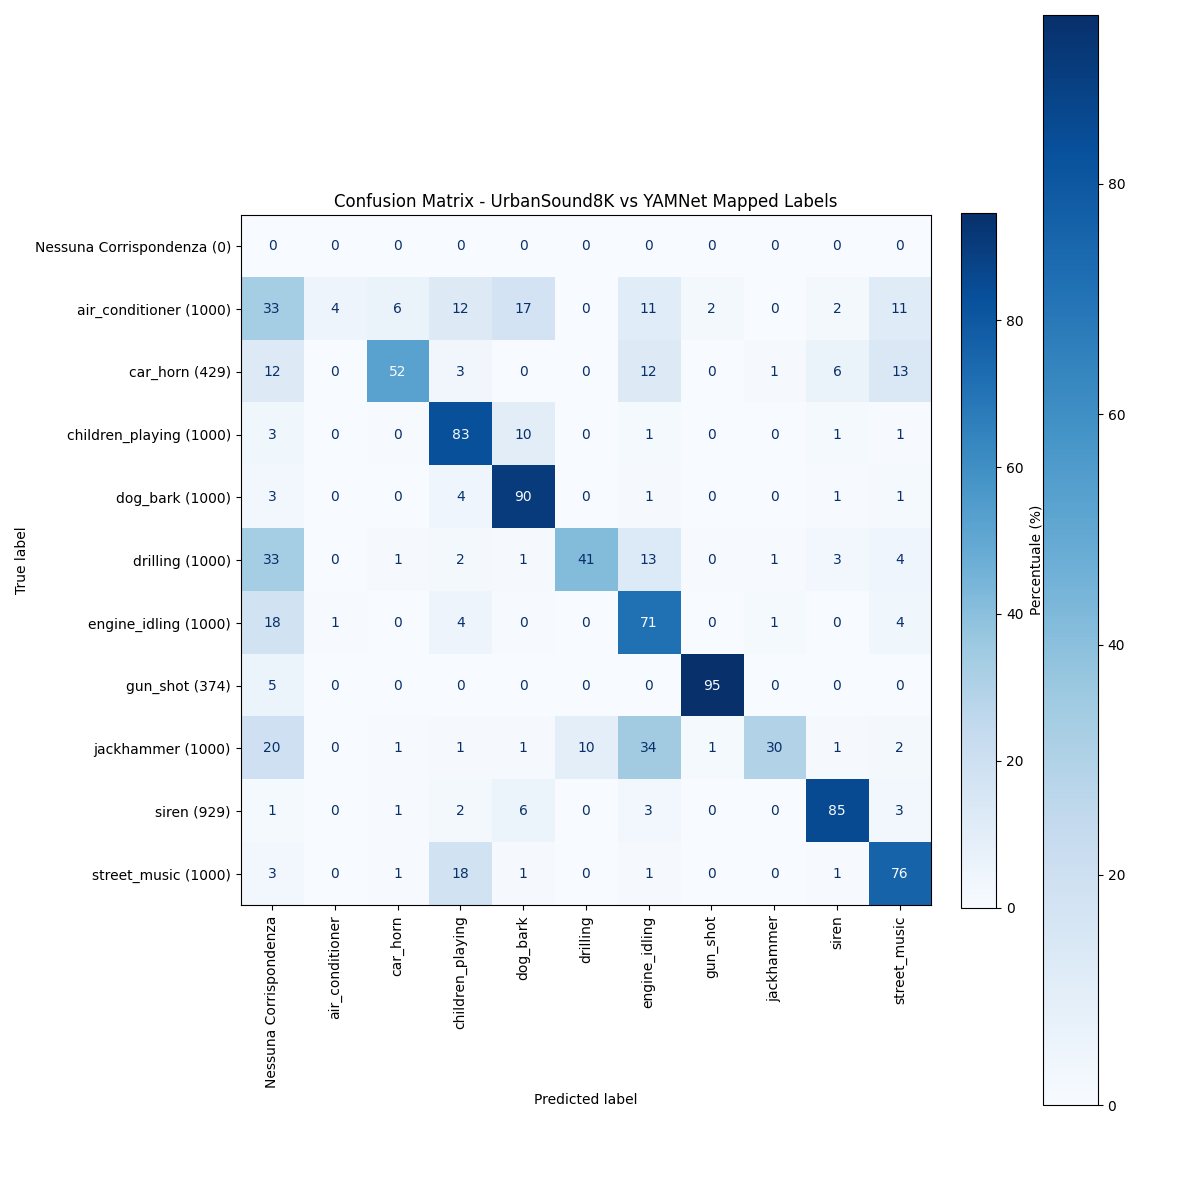
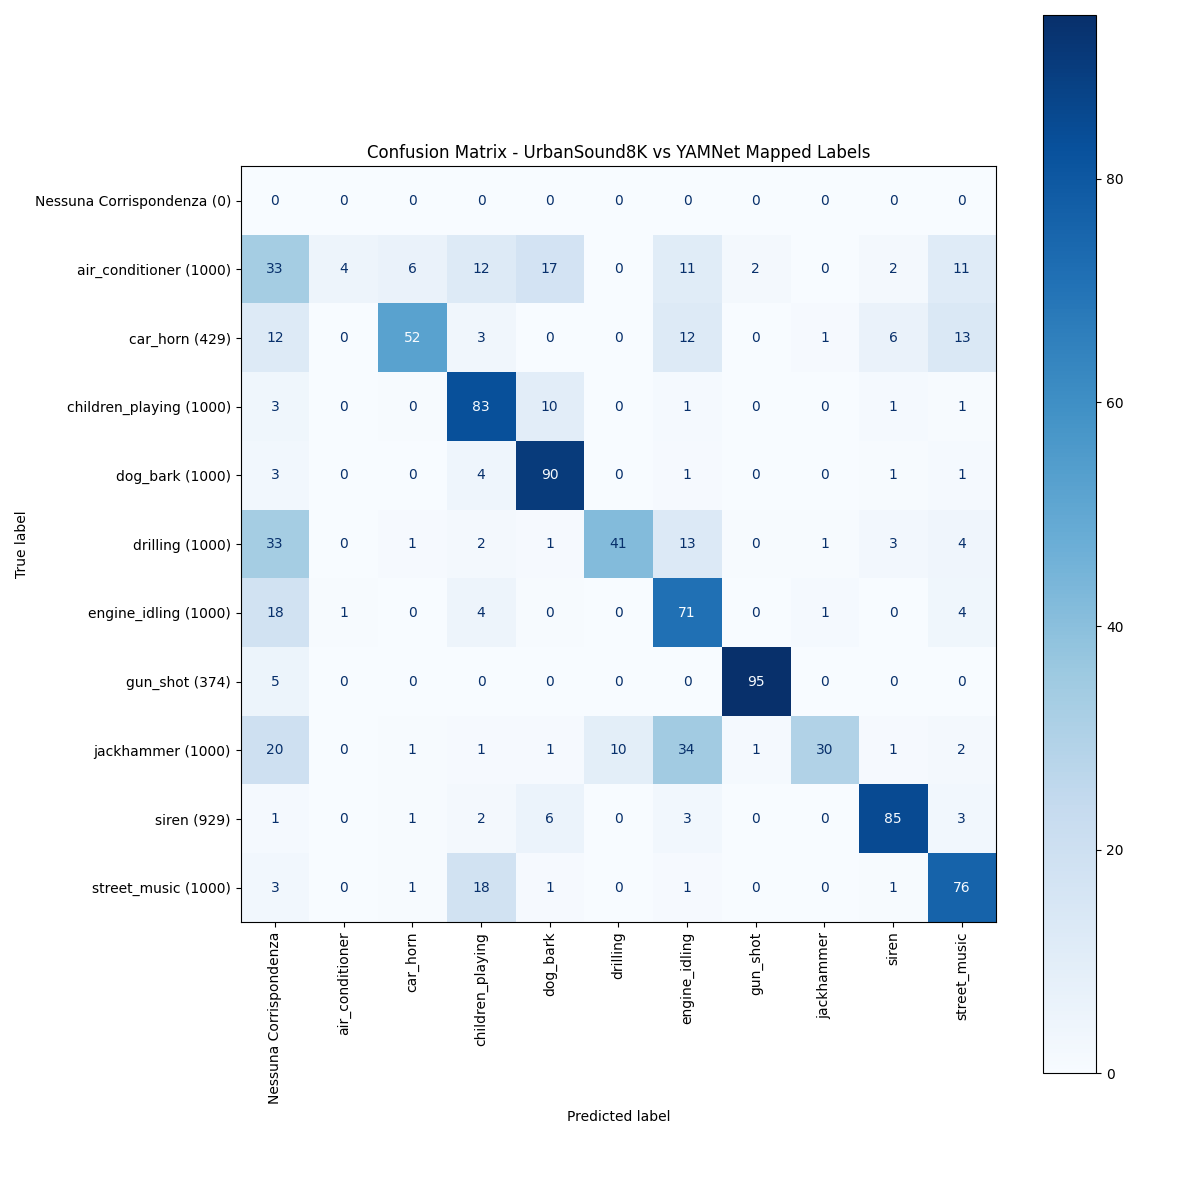
Risolti bug di visualizzazione

diff --git a/yamnet_model/analyze_yamnet.py b/yamnet_model/analyze_yamnet.py
@@ -16,7 +16,7 @@ import matplotlib.pyplot as plt
 
 MULTICLASS = 3
 AUDIO_FOLDER = "/app/UrbanSound8K"  #Volume montato dal docker_compose
-ANALYSIS = 1 #Per il Debug = per saltare la fase di analisi audio
+ANALYSIS = 0 #Per il Debug = per saltare la fase di analisi audio
 MIN_DURATION_SECONDS = 0.0  # audio più brevi di MIN_DURATION_SECONDS secondi verranno ignorati
 THRESHOLD = 0.3
 yamnet_model = hub.load('https://tfhub.dev/google/yamnet/1')
@@ -275,32 +275,9 @@ def run_batch_analysis():
     # 1. Accuracy generale
     acc = accuracy_score(y_true, y_pred)
 
-    # 2. Precision, Recall e F1 per ciascuna classe + support
-    precisions, recalls, f1s, supports = precision_recall_fscore_support(
-        y_true, y_pred,
-        labels=labels_order,
-        average=None,
-        zero_division=0
-    )
-
-    # stampa tabella dettagliata
-    print("Class     Prec     Rec    F1     Support")
-    for lbl, p, r, f, s in zip(labels_order, precisions, recalls, f1s, supports):
-        print(f"{lbl:20}  {p:.2f}  {r:.2f}  {f:.2f}    {s}")
-
-    # 3. Metriche aggregate (macro e weighted)
-    prec_macro, rec_macro, f1_macro, *_ = precision_recall_fscore_support(y_true, y_pred, average='macro', zero_division=0)
-    prec_weighted, rec_weighted, f1_weighted, *_ = precision_recall_fscore_support(y_true, y_pred, average='weighted', zero_division=0)
-
     print(f"\nOverall Accuracy: {acc:.2%}")
-    print(f"Macro‑avg Precision|Recall|F1: {prec_macro:.2f} | {rec_macro:.2f} | {f1_macro:.2f}")
-    print(f"Weighted Precision|Recall|F1: {prec_weighted:.2f} | {rec_weighted:.2f} | {f1_weighted:.2f}")
 
-    if y_true and y_pred:
-        print(classification_report(y_true, y_pred, labels=labels_order, zero_division=0))
-    else:
-       print("Errore: y_true o y_pred sono vuoti.")
-    # 4. Report compatto
+    # 2. Report compatto
     print("\nClassification report:\n", classification_report(y_true, y_pred, labels=labels_order, zero_division=0))
 
     print(f'Totale file analizzati: {total}')
@@ -316,7 +293,7 @@ def run_batch_analysis():
     fig, ax = plt.subplots(figsize=(12, 12))
     disp = ConfusionMatrixDisplay(confusion_matrix=cm, display_labels=labels_order)
     im = disp.plot(include_values=True, cmap='Blues', ax=ax, xticks_rotation=90, values_format=".0f")
-    plt.colorbar(im.im_, ax=ax, label='Percentuale (%)', fraction=0.046, pad=0.04)
+    #plt.colorbar(im.im_, ax=ax, label='Percentuale (%)', fraction=0.046, pad=0.04)
 
     # Forza le etichette manualmente
     ax.set_xticks(np.arange(len(labels_order)))
